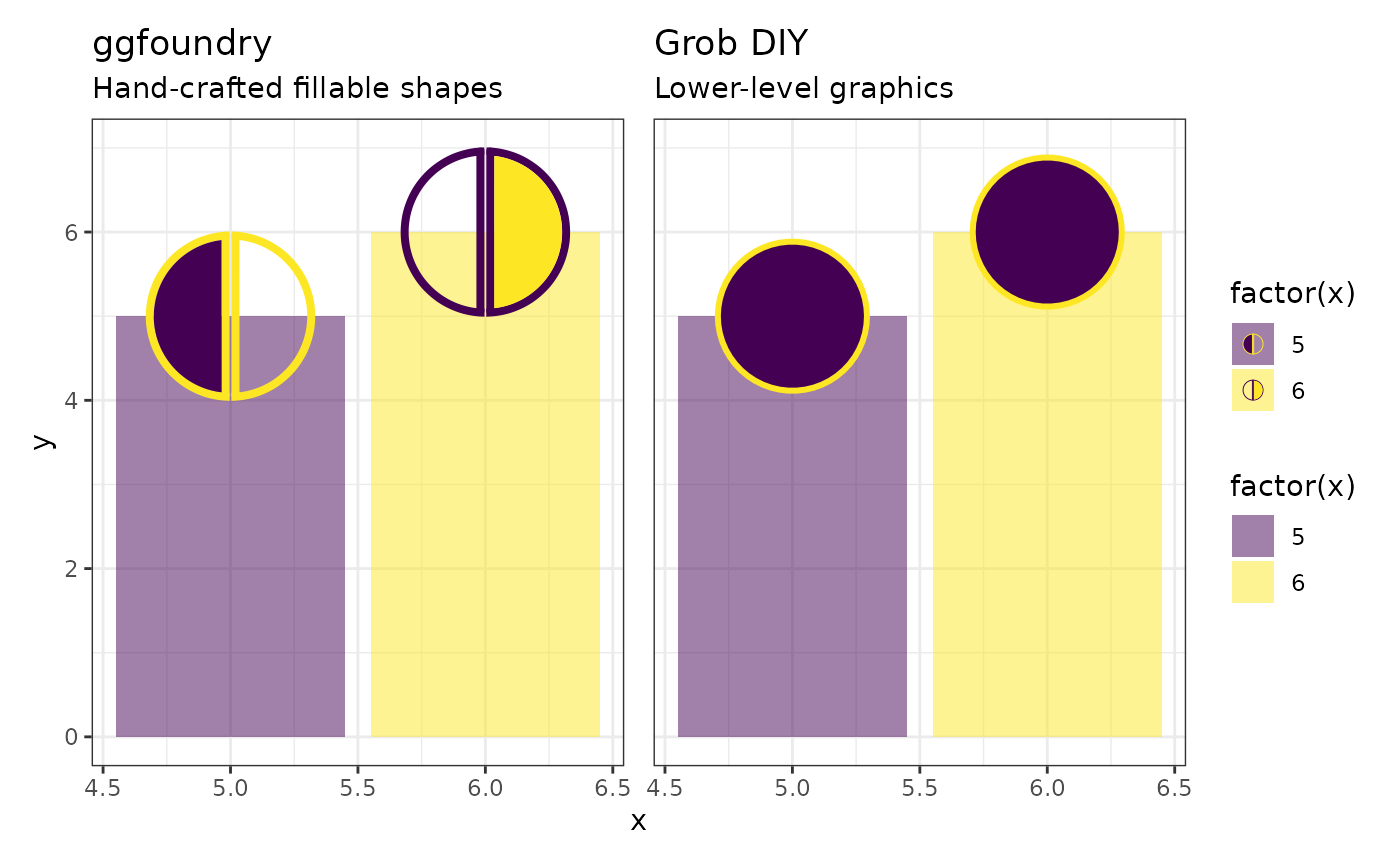
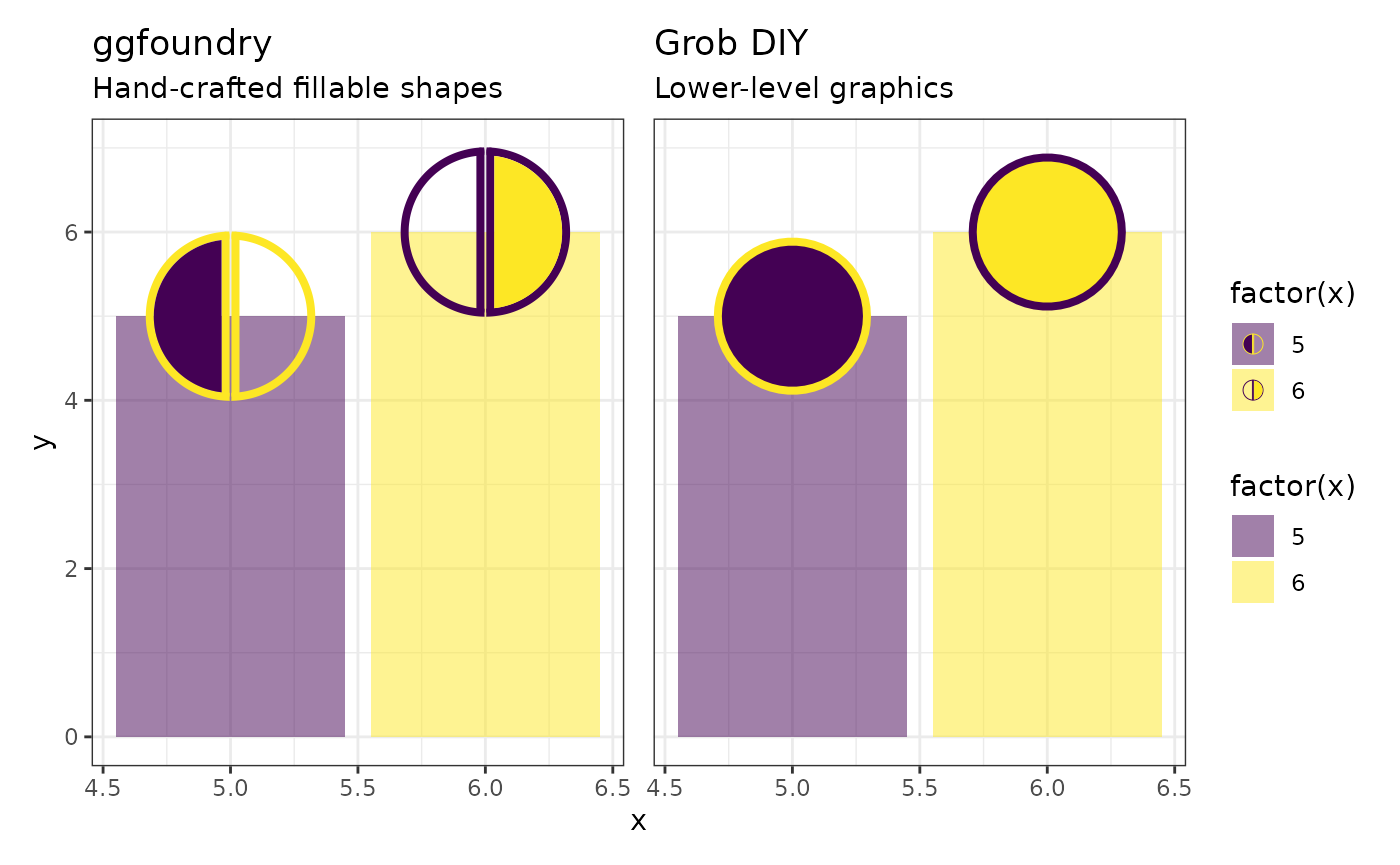
Deploying to gh-pages from @ cgoo4/ggfoundry@c401233db9f2bc1ed70fb449774439c7b20e7613 🚀

diff --git a/articles/ggfoundry.html b/articles/ggfoundry.html
@@ -339,11 +339,18 @@ here as a very basic example.</p>
 <span></span>
 <span><span class="va">df</span> <span class="op">&lt;-</span> <span class="fu"><a href="https://tibble.tidyverse.org/reference/tibble.html" class="external-link">tibble</a></span><span class="op">(</span></span>
 <span>  x <span class="op">=</span> <span class="fl">5</span><span class="op">:</span><span class="fl">6</span>, y <span class="op">=</span> <span class="fl">5</span><span class="op">:</span><span class="fl">6</span>,</span>
-<span>  grob <span class="op">=</span> <span class="fu"><a href="https://rdrr.io/r/base/list.html" class="external-link">list</a></span><span class="op">(</span><span class="fu"><a href="https://rdrr.io/r/grid/grid.circle.html" class="external-link">circleGrob</a></span><span class="op">(</span>r <span class="op">=</span> <span class="fl">0.7</span>, gp <span class="op">=</span> <span class="fu"><a href="https://rdrr.io/r/grid/gpar.html" class="external-link">gpar</a></span><span class="op">(</span></span>
-<span>    col <span class="op">=</span> <span class="st">"#fde725"</span>,</span>
-<span>    fill <span class="op">=</span> <span class="st">"#440154"</span>,</span>
-<span>    lwd <span class="op">=</span> <span class="fl">3</span></span>
-<span>  <span class="op">)</span><span class="op">)</span><span class="op">)</span></span>
+<span>  grob <span class="op">=</span> <span class="fu"><a href="https://rdrr.io/r/base/c.html" class="external-link">c</a></span><span class="op">(</span></span>
+<span>    <span class="fu"><a href="https://rdrr.io/r/base/list.html" class="external-link">list</a></span><span class="op">(</span><span class="fu"><a href="https://rdrr.io/r/grid/grid.circle.html" class="external-link">circleGrob</a></span><span class="op">(</span>r <span class="op">=</span> <span class="fl">0.7</span>, gp <span class="op">=</span> <span class="fu"><a href="https://rdrr.io/r/grid/gpar.html" class="external-link">gpar</a></span><span class="op">(</span></span>
+<span>      col <span class="op">=</span> <span class="st">"#fde725"</span>,</span>
+<span>      fill <span class="op">=</span> <span class="st">"#440154"</span>,</span>
+<span>      lwd <span class="op">=</span> <span class="fl">4</span></span>
+<span>    <span class="op">)</span><span class="op">)</span><span class="op">)</span>,</span>
+<span>    <span class="fu"><a href="https://rdrr.io/r/base/list.html" class="external-link">list</a></span><span class="op">(</span><span class="fu"><a href="https://rdrr.io/r/grid/grid.circle.html" class="external-link">circleGrob</a></span><span class="op">(</span>r <span class="op">=</span> <span class="fl">0.7</span>, gp <span class="op">=</span> <span class="fu"><a href="https://rdrr.io/r/grid/gpar.html" class="external-link">gpar</a></span><span class="op">(</span></span>
+<span>      col <span class="op">=</span> <span class="st">"#440154"</span>,</span>
+<span>      fill <span class="op">=</span> <span class="st">"#fde725"</span>,</span>
+<span>      lwd <span class="op">=</span> <span class="fl">4</span></span>
+<span>    <span class="op">)</span><span class="op">)</span><span class="op">)</span></span>
+<span>  <span class="op">)</span></span>
 <span><span class="op">)</span></span>
 <span></span>
 <span><span class="va">p</span> <span class="op">&lt;-</span> <span class="va">df</span> <span class="op">|&gt;</span></span>
@@ -383,6 +390,14 @@ fillable “Holy Grail” sought via a Github issue.</p>
 <p>These modest starter sets are included with the package. You can “mix
 and match” shapes from different sets; the set is purely for grouping
 shapes in the documentation.</p>
+<pre><code><span><span class="co">#&gt; </span></span>
+<span><span class="co">#&gt; Attaching package: 'dplyr'</span></span>
+<span><span class="co">#&gt; The following objects are masked from 'package:stats':</span></span>
+<span><span class="co">#&gt; </span></span>
+<span><span class="co">#&gt;     filter, lag</span></span>
+<span><span class="co">#&gt; The following objects are masked from 'package:base':</span></span>
+<span><span class="co">#&gt; </span></span>
+<span><span class="co">#&gt;     intersect, setdiff, setequal, union</span></span></code></pre>
 <p><img src="ggfoundry_files/figure-html/sets-1.png" width="700"></p>
 </div>
   </main><aside class="col-md-3"><nav id="toc"><h2>On this page</h2>
